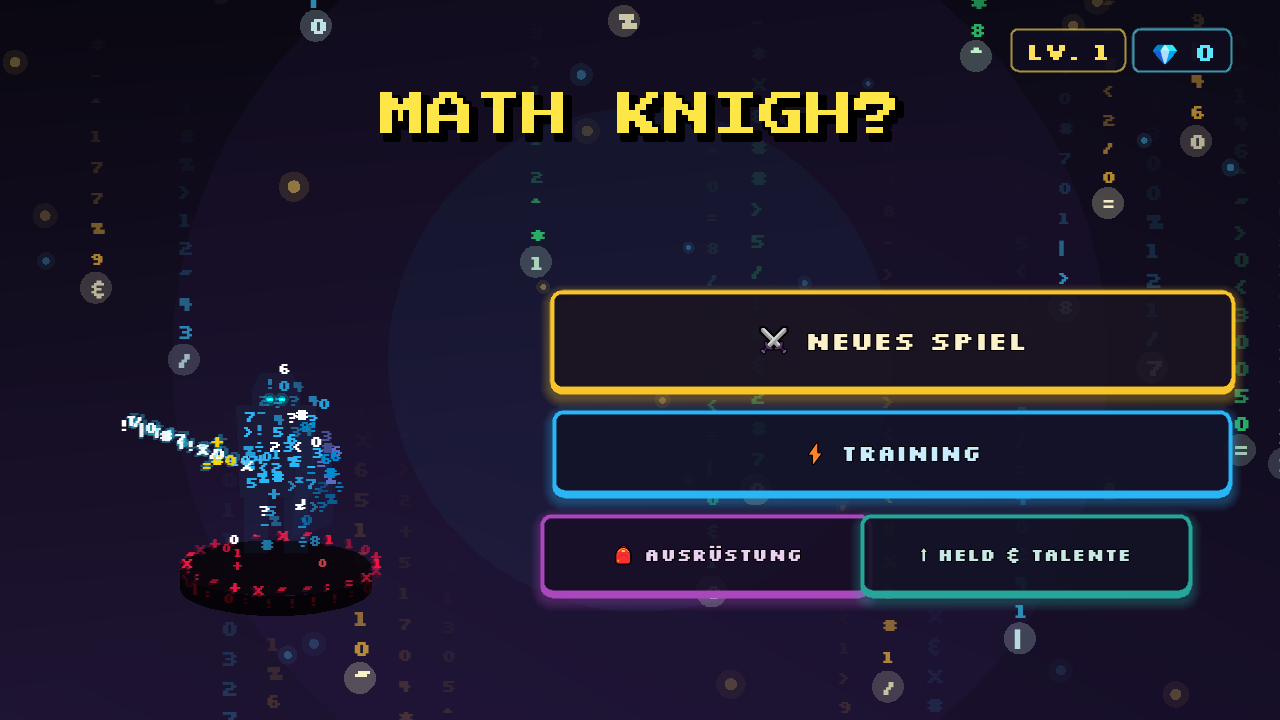
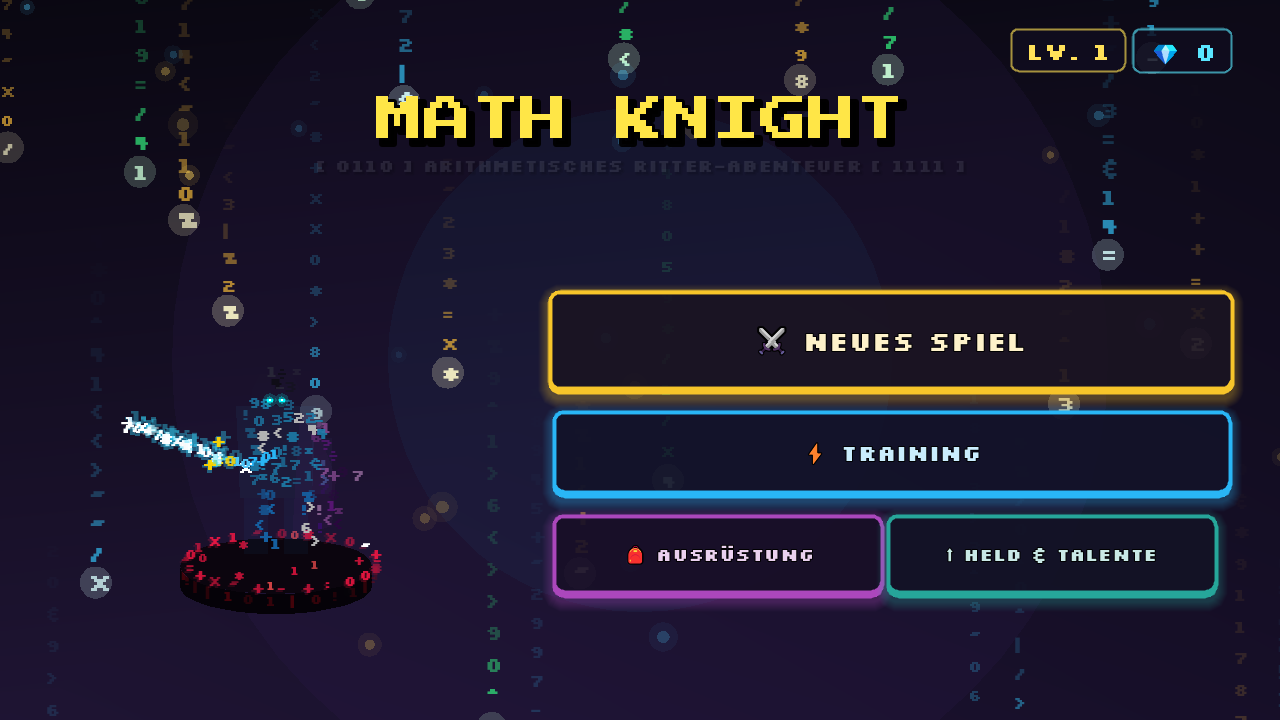
feat: implement 3D manikin wireframe ASCII knight with black helmet and purple swinging cape

diff --git a/math-knight/tools/test_recolor.py b/math-knight/tools/test_recolor.py
@@ -1,0 +1,111 @@
+import os
+import glob
+import numpy as np
+from PIL import Image
+
+def transform_knight_image(img: Image.Image, dark_armor_too: bool = False) -> Image.Image:
+    """
+    Transforms knight sprite:
+    - Blue cape / plume / cloth -> Royal Purple palette
+    - Helmet (Y in head region) -> Dark Gray / Matte Black metallic palette
+    - Visor slit / gold trim -> Enhanced radiant gold
+    """
+    arr = np.array(img, dtype=np.float32)
+    h, w, c = arr.shape
+    
+    # Work on a copy
+    out = arr.copy()
+    
+    # We define color distance or HSV based color detection
+    # 1. Detect BLUE cloth/cape/plume pixels across the entire sprite
+    r, g, b, a = arr[:, :, 0], arr[:, :, 1], arr[:, :, 2], arr[:, :, 3]
+    
+    # Non-transparent pixels
+    visible = a > 10
+    
+    # Blue detection: Blue is notably higher than Red, or specific blue RGBs
+    # In the sprite, blues have low red (<= 40), low/med green (<= 110), and high blue (>= 60)
+    # or r < 50, b > r + 25, b > g
+    is_blue_cloth = visible & (b > r + 15) & (b > 15) & (r < 100)
+    
+    # Let's map blue intensity to rich purple palette
+    # Calculate luminance / intensity of the blue
+    blue_brightness = (r * 0.2 + g * 0.4 + b * 0.8) / 255.0
+    
+    # Royal Purple Gradient (Shadow to Highlight)
+    # Deep shadow: (45, 10, 75)
+    # Dark mid: (85, 20, 140)
+    # Vibrant purple: (135, 35, 210)
+    # Highlight: (185, 75, 245)
+    # Max highlight: (225, 140, 255)
+    
+    purple_r = np.clip(35 + blue_brightness * 180, 0, 255)
+    purple_g = np.clip(5 + blue_brightness * 110 - 20, 0, 255)
+    purple_b = np.clip(65 + blue_brightness * 190, 0, 255)
+    
+    out[is_blue_cloth, 0] = purple_r[is_blue_cloth]
+    out[is_blue_cloth, 1] = purple_g[is_blue_cloth]
+    out[is_blue_cloth, 2] = purple_b[is_blue_cloth]
+    
+    # 2. Detect HELMET region
+    # Head area is generally Y from top of visible pixels to ~54
+    y_indices, x_indices = np.where(visible)
+    if len(y_indices) > 0:
+        top_y = y_indices.min()
+        # Head / Helmet region spans top_y to top_y + 44
+        head_bottom = top_y + 44
+        
+        # Create head mask
+        head_mask = np.zeros((h, w), dtype=bool)
+        head_mask[top_y:head_bottom, :] = True
+        
+        # Silver / Gray metals in head region (not outline, not gold visor, not blue cloth)
+        # Silver colors have r ~ g ~ b (std < 15) and brightness > 60 and < 255
+        rgb_mean = (r + g + b) / 3.0
+        rgb_std = np.std(arr[:, :, :3], axis=2)
+        
+        is_gold_visor = visible & (r > 160) & (g > 110) & (b < 100)
+        is_black_outline = visible & (rgb_mean < 35)
+        
+        is_head_silver = visible & head_mask & ~is_blue_cloth & ~is_gold_visor & ~is_black_outline & (rgb_std < 22)
+        
+        # Transform silver helmet to dark gray / black metallic
+        # Silver brightness ranges from ~100 to 250
+        # We remap to dark steel / black: 30 to 110
+        norm_silver = (rgb_mean - 60.0) / 195.0
+        norm_silver = np.clip(norm_silver, 0.0, 1.0)
+        
+        # Dark metallic gradient:
+        # Dark shadow: (28, 28, 35)
+        # Mid tone: (55, 55, 68)
+        # Highlight: (95, 98, 115)
+        # Specular glint: (140, 145, 165)
+        dark_r = 24.0 + (norm_silver ** 1.3) * 115.0
+        dark_g = 25.0 + (norm_silver ** 1.3) * 120.0
+        dark_b = 32.0 + (norm_silver ** 1.3) * 135.0
+        
+        out[is_head_silver, 0] = dark_r[is_head_silver]
+        out[is_head_silver, 1] = dark_g[is_head_silver]
+        out[is_head_silver, 2] = dark_b[is_head_silver]
+        
+        # If dark_armor_too is requested, also do body armor
+        if dark_armor_too:
+            body_mask = np.zeros((h, w), dtype=bool)
+            body_mask[head_bottom:, :] = True
+            is_body_silver = visible & body_mask & ~is_blue_cloth & ~is_gold_visor & ~is_black_outline & (rgb_std < 22)
+            out[is_body_silver, 0] = dark_r[is_body_silver]
+            out[is_body_silver, 1] = dark_g[is_body_silver]
+            out[is_body_silver, 2] = dark_b[is_body_silver]
+
+    return Image.fromarray(np.uint8(np.clip(out, 0, 255)))
+
+if __name__ == "__main__":
+    src_west = r"c:\MathKnight\math-knight\assets\sprites\knight_comic\Idle\rotations\west.png"
+    img = Image.open(src_west)
+    res1 = transform_knight_image(img, dark_armor_too=False)
+    res1.save(r"c:\MathKnight\preview_redesign_dark_helm.png")
+    
+    res2 = transform_knight_image(img, dark_armor_too=True)
+    res2.save(r"c:\MathKnight\preview_redesign_full_dark.png")
+    
+    print("Saved preview_redesign_dark_helm.png and preview_redesign_full_dark.png")

diff --git a/math-knight/tools/redesign_knight.py b/math-knight/tools/redesign_knight.py
@@ -1,0 +1,58 @@
+import urllib.request
+import json
+import time
+import os
+import base64
+import zipfile
+import io
+
+API_KEY = "986cf6b7-7da0-42a7-901c-0c6e0ef34d66"
+URL = "https://api.pixellab.ai/mcp"
+
+def call_mcp_tool(tool_name: str, arguments: dict):
+    headers = {
+        "Authorization": f"Bearer {API_KEY}",
+        "Content-Type": "application/json",
+        "Accept": "application/json, text/event-stream"
+    }
+    payload = {
+        "jsonrpc": "2.0",
+        "id": int(time.time()),
+        "method": "tools/call",
+        "params": {
+            "name": tool_name,
+            "arguments": arguments
+        }
+    }
+    req = urllib.request.Request(URL, data=json.dumps(payload).encode("utf-8"), headers=headers, method="POST")
+    with urllib.request.urlopen(req) as response:
+        raw = response.read().decode("utf-8")
+        for line in raw.split("\n"):
+            if line.startswith("data:"):
+                return json.loads(line[5:].strip())
+    return None
+
+def create_redesigned_knight():
+    description = (
+        "A heroic comic knight in polished steel plate armor with a flowing royal purple cape and purple cloth tunic accents. "
+        "Wearing a dark gray and matte black closed knight helmet with glowing gold visor slit and a dark purple feather plume on top. "
+        "Carrying a sharp medieval steel sword. Clean colorful comic fantasy style with bold pixel art outlines."
+    )
+    print("Sending create_character request...")
+    res = call_mcp_tool("create_character", {
+        "name": "Dark Helm Purple Cape Knight",
+        "description": description,
+        "mode": "standard",
+        "size": 92,
+        "n_directions": 4,
+        "view": "side",
+        "outline": "single color black outline",
+        "shading": "medium shading",
+        "detail": "medium detail",
+        "proportions": json.dumps({"type": "preset", "name": "cartoon"})
+    })
+    print("Response:", json.dumps(res, indent=2))
+    return res
+
+if __name__ == "__main__":
+    create_redesigned_knight()
